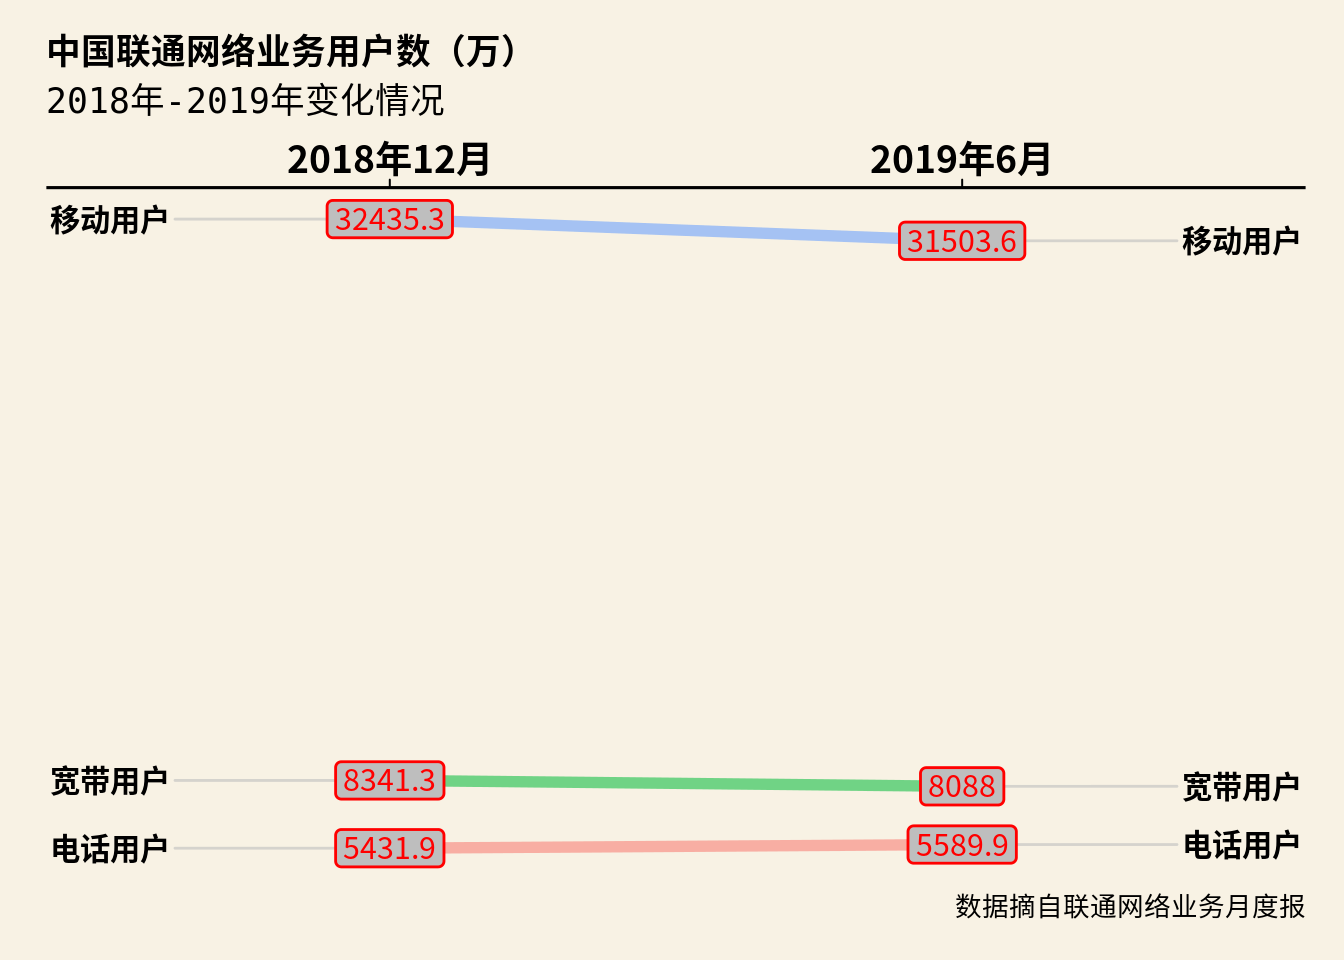
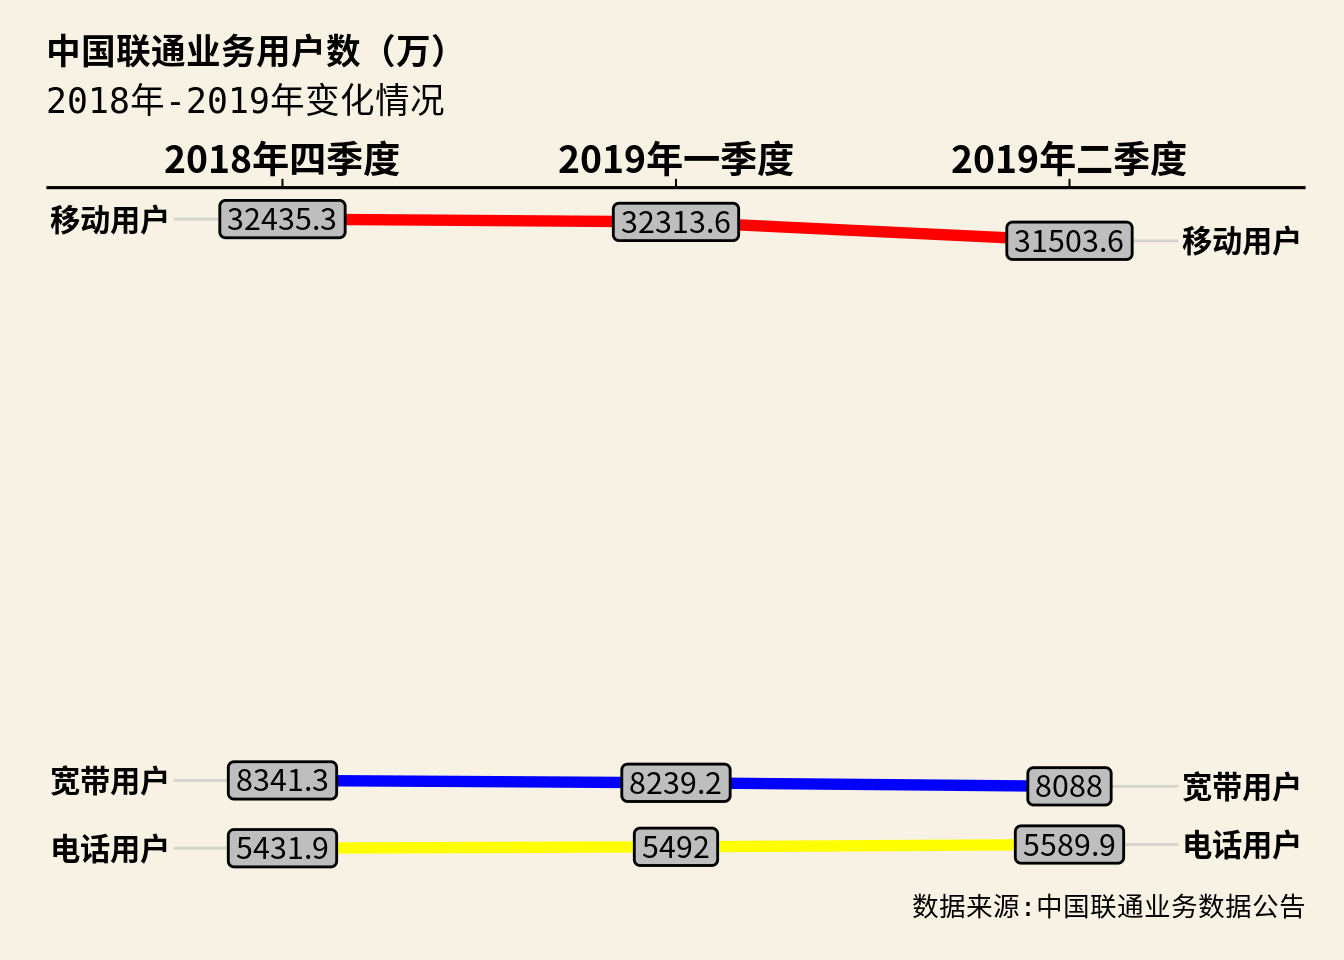
2019-07-30-19-29

diff --git a/post/creating-slopegraph-with-r/index.html b/post/creating-slopegraph-with-r/index.html
@@ -68,7 +68,7 @@
 
 <meta itemprop="datePublished" content="2019-07-21T00:00:00&#43;00:00" />
 <meta itemprop="dateModified" content="2019-07-30T00:00:00&#43;00:00" />
-<meta itemprop="wordCount" content="3208">
+<meta itemprop="wordCount" content="3270">
 
 
 
@@ -305,7 +305,7 @@
             <a href="/categories/%E5%AD%A6%E4%B9%A0/"> 学习 </a>
             
           </div>
-        <span class="more-meta"> 约 3208 字 </span>
+        <span class="more-meta"> 约 3270 字 </span>
           <span class="more-meta"> 预计阅读 7 分钟 </span>
 
         
@@ -352,6 +352,7 @@
 <p>用斜线图表示，如下</p>
 <p><img src="/post/2019-07-21-%E7%94%A8r%E8%AF%AD%E8%A8%80%E5%81%9A%E6%96%9C%E7%8E%87%E5%9B%BE_files/figure-html/slopegraph-1.png" width="672" /></p>
 <p>比较上面三个图表，显然斜线图更能给受众更加直观、清晰的可视数据。柱状图只是吧数据进行的展示，并没有在图中同时直观的展示出各公司收入的<strong>排名</strong>和收入变化的<strong>幅度</strong>，而斜线图上则把收入、排名、变化幅度都同时直观的展示出来了。</p>
+<p>对比上面的柱状图和斜线图，最大的差别是柱状图的Y轴数值一般是从0开始，这也是在做折线图、柱状图的一个基本要求，如果不从零开始，就会放大变化的幅度。而斜线图的Y轴并不是从0开始的，所以更适合比较名次的变化或相对数值的变化，而不是绝对数值的变化。</p>
 </div>
 <div id="r" class="section level2">
 <h2>怎么用R语言作斜线图</h2>
@@ -433,10 +434,10 @@
   ThemeChoice = &quot;tufte&quot;
   )</code></pre>
 <p><img src="/post/2019-07-21-%E7%94%A8r%E8%AF%AD%E8%A8%80%E5%81%9A%E6%96%9C%E7%8E%87%E5%9B%BE_files/figure-html/demo-1.png" width="672" /></p>
-<p>若有什么意见和建议，请在下面留言。</p>
-<p>附：中国联通2018年12月，2019年6月业务数据的斜线图。</p>
+<p>一般来说，斜线图是比较两个时间点或两组分类的数据可视图，但也可以比较多组数据，但一般不要过多，时间扩大最好大一些。如下图。</p>
+<p>中国联通2018年四季度，2019年一、二季度业务数据的斜线图。</p>
 <p><img src="/post/2019-07-21-%E7%94%A8r%E8%AF%AD%E8%A8%80%E5%81%9A%E6%96%9C%E7%8E%87%E5%9B%BE_files/figure-html/chinaunicom-1.png" width="672" /></p>
-<p>对比上面的柱状图和斜线图，最大的差别是柱状图的Y轴数值一般是从0开始，这也是在做折线图、柱状图的一个基本要求，如果不从零开始，就会放大变化的幅度。而斜线图的Y轴并不是从0开始的，所以更适合比较名次的变化或相对数值的变化，而不是绝对数值的变化。</p>
+<p>若有什么意见和建议，请在下面留言。</p>
 </div>
 
     </div>

diff --git a/index.html b/index.html
@@ -346,7 +346,7 @@
           <a href="/categories/%E5%AD%A6%E4%B9%A0/"> 学习 </a>
           
         </div>
-      <span class="more-meta"> 约 3208 字 </span>
+      <span class="more-meta"> 约 3270 字 </span>
       <span class="more-meta"> 预计阅读 7 分钟 </span>
       
       
